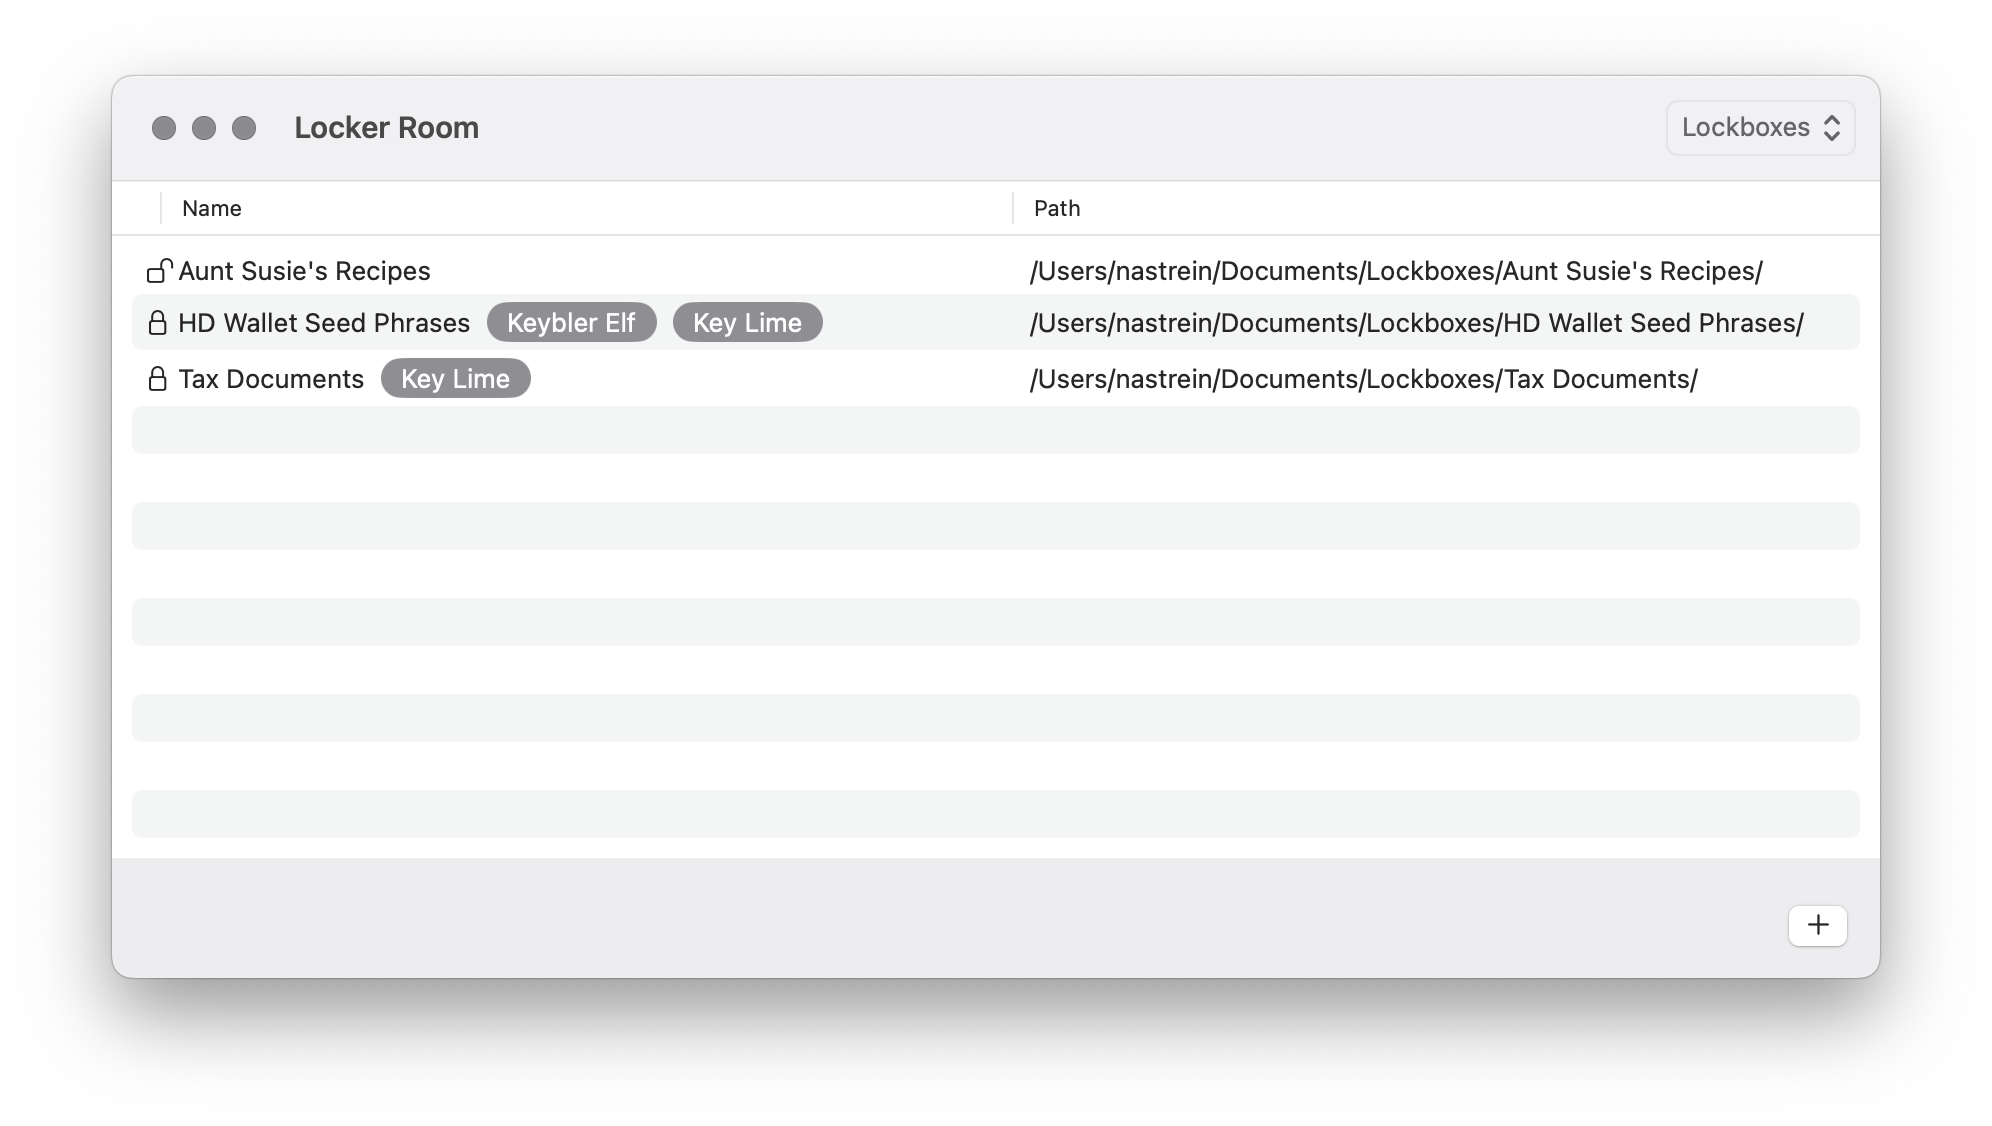
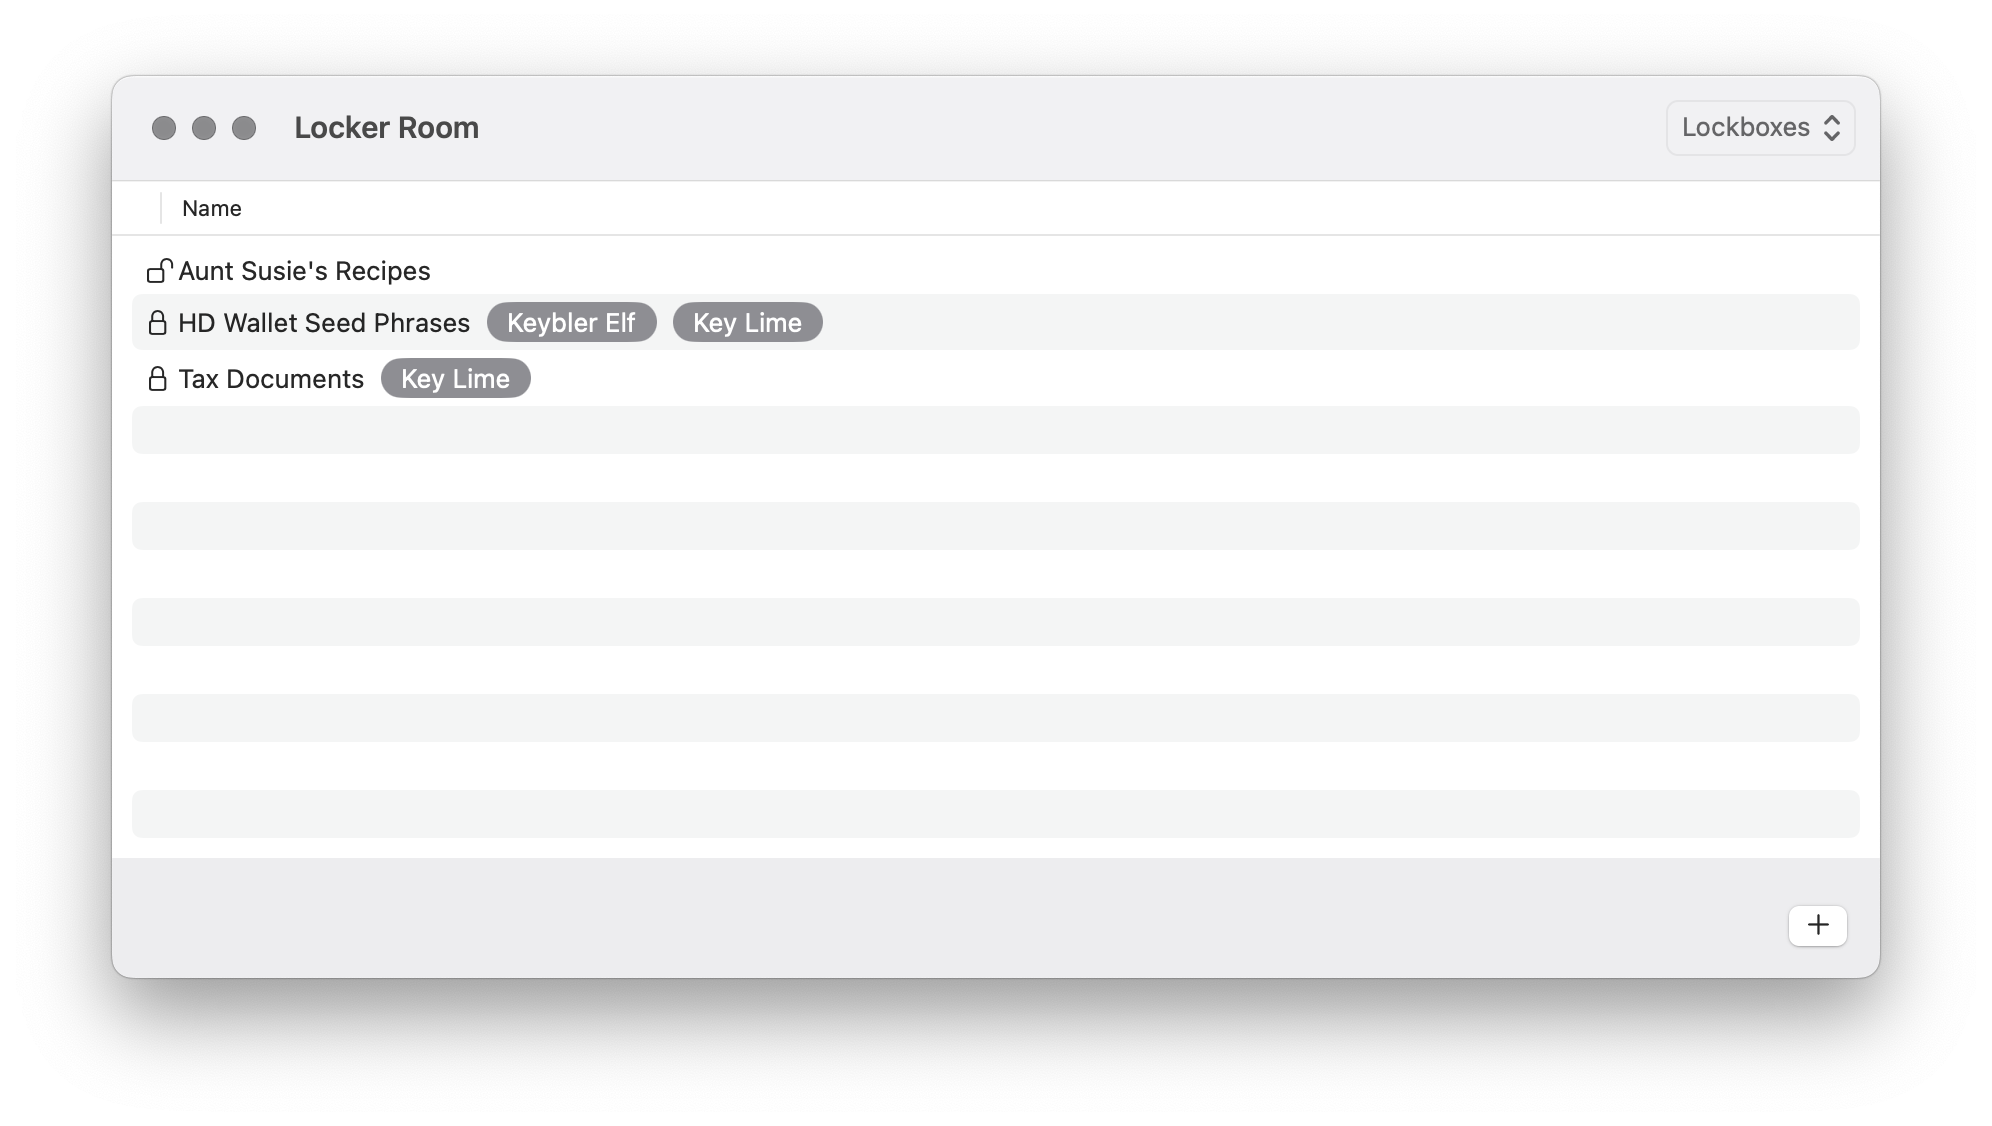
Remove the path of the lockbox from the UI.

Changed region(s): [[0.5291, 0.2798, 0.9026, 0.3419], [0.5291, 0.2176, 0.8715, 0.2487]]

diff --git a/LockerRoom/Views/LockerRoomMainView.swift b/LockerRoom/Views/LockerRoomMainView.swift
@@ -73,10 +73,6 @@ private struct LockerRoomLockboxesView: View {
                         Spacer()
                     }
                 }
-                
-                TableColumn("Path") { lockboxMetadata in
-                    Text(lockboxMetadata.url.path(percentEncoded:false))
-                }
             }
             .contextMenu(forSelectionType: LockerRoomLockboxMetadata.ID.self) { metadataIDs in
                 selectedLockboxContextMenu(fromMetadataIDs: metadataIDs)
